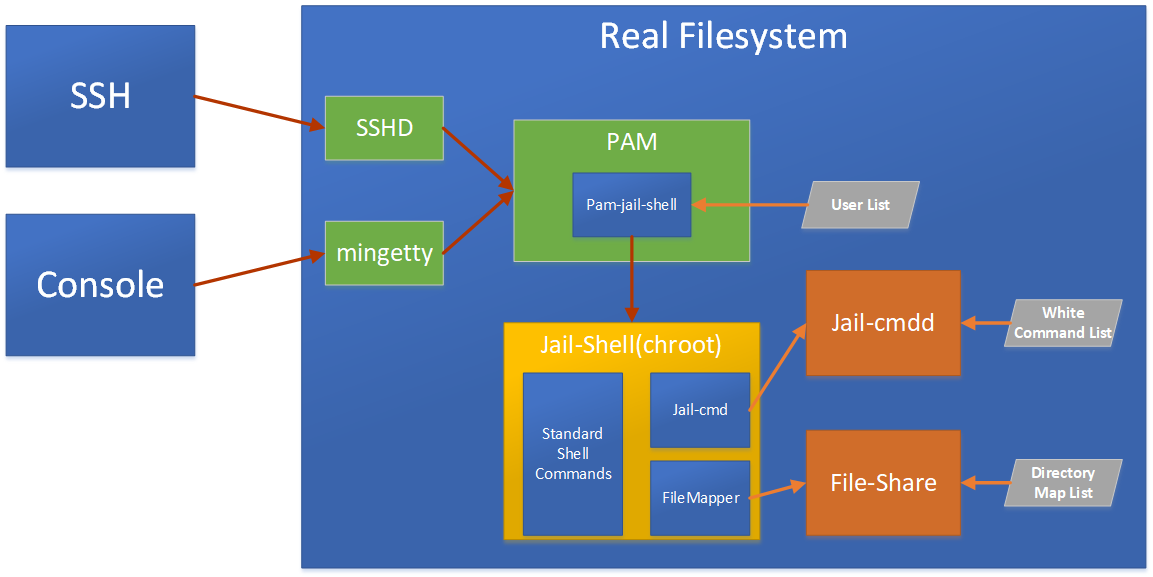
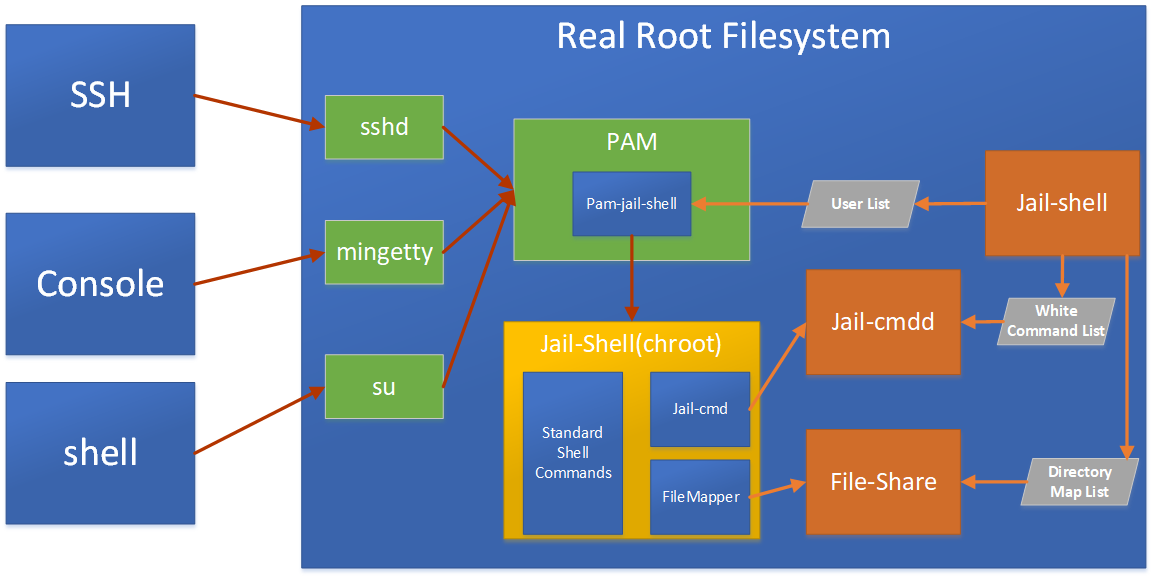
Add detailed readme content.

diff --git a/README.md b/README.md
@@ -1,6 +1,249 @@
 Jail-Shell
 ==============
-Jail-shell is a security tool to limit user accounts to specific directory using chroot() and or specific commands.
 
+[中文REAMDME请看这里](README_zh-CN.md)
+
+Jail-shell is a linux security tool mainly using chroot, namespaces technologies, limiting users to perform specific commands, and access sepcific directories.  
+Users can login through SSH, SCP, SFTP, Telnet, terminals, etc. and restrict them to a secure operating enviroment.  
+Jail-shell can be used for webhost ssh access control, enterprise Administrator's privilege hierarchy management.  
+
+
+Features
+==============
+- **Easy to use**
+
+Through the configuration file, jail-shell automatically generates the chroot running environment, through jail-shell management commands, it's very easy to add, list, delete, restrict users, and easy to install, delete chroot running environment. 
+
+- **Chroot technology limits user access**
+
+The Linux chroot technology is used to restrict the user's directory access, to avoid users access to restricted directories and to prevent users from destroying the system.
+
+- **Directory read-only protection**
+
+The chroot running enviroment is readonly, this avoid users to delete proteceded directories and files, avoid users to create device files, access restricted files.
+
+- **Namespace limit user Visible range**
+
+Use Linux namespace technology, limit the visible range of user PID, Mount directories, and avoid information leackage.
+
+- **System command channel**
+
+Provides a system command-and-proxy channel that allows users to execute a real system's restricted command in a chroot environment, protecting the system in the event that it provides the necessary functionality. 
+
+- **Automatic processing of chroot Environment command library dependencies**
+
+Only a list of commands is required to automatically copy the dynamic library that the command relies on to the chroot environment, avoiding the cumbersome work of copying the dynamic library manually
+
+- **Capabilities Restrictions**
+
+Discard critical capabilities privileges to avoid the system, and the chroot running environment cracked by rootkit.
+
+- **Multi-Linux operating system support**
+
+Supports Redhat, SLEs, Debian and their derivative operating systems.
+
+Architecture
+==============
 ![Architecture](docs/Architecture.png)
+Jail-shell contains 3 parts, Pam Plugins, jail-cmd command agents, Jail-shell command tools.
 
+- **pam_jail_shell Plugins**
+
+Mainly control the login of users. according th the configuration list, use chroot and namespace technology to restrict the login users to a specific restricted directory.
+
+- **jail-cmd command-and-proxy**
+
+It forwards specific command to the real system, such as `passwd`, or other user-related bussiness command, and it also prevent command injection.
+
+- **jail-shell commandline tool**
+
+Mainly provides the ability to manage the restricted security shell, making it easier for administrators to use, including user's add, delete, shell's configuration, installation, deletion, etc.
+
+**instructions**
+1. According to the configuration, pam_jail_shell limit users to the specificed chroot enviroment.
+2. Administrators use jail-shell command manage the list of restricted users, manage the list of commands for the chroot enviroment, manage the access range of directories.
+3. Jail-cmd proxies specific command, to help implement the nessary business functions.
+
+
+Compile and install 
+==============
+**Compile**
+```
+git clone https://github.com/pymumu/jail-shell.git
+cd jail-shell
+make 
+```
+
+**Install**
+```
+sudo make install
+```
+
+**Uninstall**
+```
+sudo /usr/local/jail-shell/install -u
+```
+
+Usage
+==============
+After installation, you can use `jail-shell` command to manage jails, `jail-shell -h` for help.  
+In use, the steps are as follows:  
+1. Use `useradd username` command to add user to the system.
+2. Use `jail-shell jail` command to create a chroot enviroment.
+3. Use `jail-shell user` command to add user to the jails.
+
+
+Example
+-------------
+The following is an example of adding  user `test`  to a jail named `test-jail`.  
+1. add user `test`，and set password
+```shell
+sudo useradd test
+sudo passwd test
+```
+
+2. create chroot enviroment
+```shell
+sudo jail-shell jail -e test-jail
+```
+After executing the above command, a new jail configuration will be created from the template, and it is opened by `vi`, you can edit it, after that, remember to save the configuration with vi command `:w!`.
+
+3. install chroot enviroment
+```shell
+sudo jail-shell jail -i test-jail
+```
+
+4. add user `test` to jail `test-jail`
+```shell
+sudo jail-shell user -a test -j test-jail
+```
+
+5. connect and test whether `test` is jailed.
+```shell
+ssh test@127.0.0.1
+```
+
+Jail Config file format description
+-------------
+The jail config file is located at `/etc/jail-shell/jail-config/`, and file suffix is `.cfg`    
+The configuration supports the following commands: 
+- **dir**
+  * DESC:  
+create a directory into jail
+  * COMMAND:  
+`dir PATH MODE OWNER`
+  * EXAMPLE:  
+`dir /bin/ 0755 root:root`
+
+- **file:**
+  * DESC:  
+copy a file into jail
+  * COMMAND:  
+`file SRC DEST MODE OWNER`
+  * EXAMPLE:  
+`file /etc/nsswitch.conf /etc/nsswitch.conf 0644 root:root`
+
+- **hlink:**
+  * DESC:  
+create a hardlink file into jail
+  * COMMAND:  
+`file SRC DEST MODE OWNER`
+  * EXAMPLE:   
+`file /etc/nsswitch.conf /etc/nsswitch.conf 0644 root:root`
+
+- **slink:**
+  * DESC:  
+create a symbolic link into jail
+  * COMMAND:   
+`slink TARGET LINKNAME`
+  * EXAMPLE:   
+`slink /bin/bash /bin/sh`
+
+- **clink:**
+  * DESC:  
+Try to create hardlinks instead of copying the files. If linking fails it falls back to copying
+  * COMMAND:   
+`clink TARGET LINKNAME`
+  * EXAMPLE:   
+`clink /etc/localtime /etc/localtime`
+
+- **node:**
+  * DESC:  
+create device file.
+  * COMMAND:   
+`node PATH TYPE MAJON MINOR MODE OWNER`
+  * EXAMPLE:  
+`node /dev/null c 1 3 666 root:root`
+  * NOTE: security tips  
+           should avoid adding block device files. 
+ 
+- **bind:**
+  * DESC:  
+bind a directory to jail
+  * COMMAND:  
+`bind [SRC] DEST OPTION`  
+  * OPTION: rw,ro,dev,nodev,exec,noexec, refer to (man mount) for the parameter description   
+  * EXAMPLE:  
+`bind / ro,nodev,nosuid`  
+`bind /opt/ /opt/ ro,nodev,noexec`  
+
+- **cmd:**
+  * DESC:  
+executes commands within the system which outside jail.
+  * COMMAND: `cmd SRC DEST MODE RUN_AS_USER` 
+  * RUN_AS_USER: User who executes system commands, -:- means user in jail  
+  * EXAMPLE:  
+           `cmd /usr/bin/passwd /usr/bin/passwd -:- `  
+           `cmd /some/root/command /some/root/command root:root`  
+           `cmd /some/user/command /some/user/command user:user `  
+  * NOTE: security tips
+           This channel may lead users to escape jail, should avoid adding command which can be shell-inject,  
+           For example, read the commands entered by the user  
+
+Security Tips
+==============
+When using jail-shell, the minimum security authorization principle should be adopted. In the premise of ensuring the use of functions, reduce user rights.
+1. `bind` tips
+  * Except `/dev` directory, it is recommended to add `nodev` parameters, /dev directory must set to `ro, noexec` (read-only, disable executables) permissions.
+  * For the chroot environment directory, it is recommended to set `ro, nodev, nosuid` (read only, prohibit device files, and prohibit suid files) permissions. 
+  * For writable bind directories, it is recommended to set `nodev, noexec, nosuid` (disable device files, disable executable files, disable suid files) permissions. 
+
+2. avoid commands
+  * avoid: debug commands such as `gdb, mount, strace`, etc.. 
+
+
+File Directory Description
+==============
+| directory                           |description                                                      |
+|-------------------------------------|-----------------------------------------------------------------|
+| `/etc/jail-shell/`                  | Configure file Directory                                        |
+| `/etc/jail-shell/jail-shell. conf`  | Restricted User Configuration list file                         |
+| `/etc/jail-shell/jail-config/`      | The directory where the jail shell configuration file is located, and the suffix. cfg file is recognized as a jail configuration file. |
+| `/var/local/jail-shell/`            | Jail-shell Data Directory |
+| `/var/local/jail-shell/jails`       | Jail-shell chroot Environment Directory |
+| `/usr/local/jail-shell`             | Jail-shell program Directory |
+
+Debugging the chroot environment
+==============
+When you copy a command to the chroot environment, if the copy command fails, you need to debug to find the missing dependent files, and add them to the chroot environment.  
+Copy the `strace` command into the chroot environment, and then use `strace` to execute the commands that need to be debugged to find the missing dependent files.   
+The following debugging commands are as follows 
+```shell 
+Strace -F -eopen command
+```
+-eopen represents a list of files that the trace process opens.  
+After executing the above command, troubleshoot to find the open file list.
+```shell
+Open ("/etc/ld.so.preload", "O_RDONLY") = -1 ENOENT (No, such, file, or, directory)
+```
+As indicated above, the `/etc/ld-so.preload` file does not exist when reading, and may need to add the above files to the chroot environment. At this point, you can use the `clink`, `file` command to add missing files to the chroot environment. 
+
+License
+==============
+Jail-shell using GPL-V2 License.
+
+Similar tools
+==============
+[jailkit https://olivier.sessink.nl/jailkit/](https://olivier.sessink.nl/jailkit/)  
+[rshell https://en.wikipedia.org/wiki/Restricted_shell](https://en.wikipedia.org/wiki/Restricted_shell)  
+[firejail https://github.com/netblue30/firejail](https://github.com/netblue30/firejail)   

diff --git a/README_zh-CN.md b/README_zh-CN.md
@@ -59,7 +59,7 @@ jail-shell安全受限shell是一个Linux环境下的安全工具，主要使用
 
 **说明**
 1. 用户通过ssh, 终端，telnet等shell管理工具登录到系统后，pam_jail_shell插件根据配置列表，将登录用户的访问范围限制在指定的chroot环境中。
-2. 管理员通过jail-shel命令，管理受限用户名单列表，以及管理chroot环境的命令列表，并配置目录的访问范围。
+2. 管理员通过jail-shell命令，管理受限用户名单列表，以及管理chroot环境的命令列表，并配置目录的访问范围。
 3. jail-cmd代理用户执行的系统命令，辅助实现必要的业务功能。
 
 
@@ -86,9 +86,9 @@ sudo /usr/local/jail-shell/install -u
 ==============
 安装完成后，可使用jail-shell命令管理安全受限shell，通过`jail-shell -h`查看命令帮助  
 在使用上，步骤如下：  
-1. 使用useradd命令添加用户到系统中。
-2. 使用jail-shell jail创建安全受限shell配置，并创建受限运行环境。
-3. 使用jail-shell user将用户添加到受限系统中。
+1. 使用`useradd username`命令添加用户到系统中。
+2. 使用`jail-shell jail`创建安全受限shell配置，并创建受限运行环境。
+3. 使用`jail-shell user`将用户添加到受限系统中。
 
 使用举例
 -------------
@@ -126,45 +126,62 @@ ssh test@127.0.0.1
 此配置文件用于生成制定的jail，将需要的文件，命令复制到jail中。  
 配置支持如下命令：
 - **dir: 创建目录**  
-  参数：`dir PATH MODE OWNER`  
-  例子：`dir /bin/ 0755 root:root`  
+  * 参数：  
+`dir PATH MODE OWNER`  
+  * 例子：  
+`dir /bin/ 0755 root:root`  
 
 - **file: 复制文件**  
-  参数：`file SRC DEST MODE OWNER`  
-  例子：`file /etc/nsswitch.conf /etc/nsswitch.conf 0644 root:root`
+  * 参数：  
+`file SRC DEST MODE OWNER`  
+  * 例子：  
+`file /etc/nsswitch.conf /etc/nsswitch.conf 0644 root:root`
 
 - **hlink: 创建硬链接文件**  
-  参数：`hlink SRC DEST `  
-  例子：`hlink /etc/localtime /etc/localtime`  
+  * 参数：  
+`hlink SRC DEST `  
+  * 例子：  
+`hlink /etc/localtime /etc/localtime`  
 
 - **slink: 创建符号连接**  
-  参数：`slink TARGET LINKNAME`  
-  例子：`slink /bin/bash /bin/sh`
+  * 参数：  
+`slink TARGET LINKNAME`  
+  * 例子：  
+`slink /bin/bash /bin/sh`
 
 - **clink: 先硬连接创建文件，若失败则复制文件**  
-  参数：`clink SRC DEST `  
-  例子：`clink /etc/localtime /etc/localtime`  
+  * 参数：  
+`clink SRC DEST `  
+  * 例子：  
+`clink /etc/localtime /etc/localtime`  
 
 - **node: 创建设备文件**  
-  参数：`node PATH TYPE MAJON MINOR MODE OWNER`  
-  例子：`node /dev/null c 1 3 666 root:root`  
-  安全说明：  
-        应该避免添加块设备文件。
+  * 参数：  
+`node PATH TYPE MAJON MINOR MODE OWNER`  
+  * 例子：  
+`node /dev/null c 1 3 666 root:root`  
+  * 安全说明：  
+应该避免添加块设备文件。
 
 - **bind: 绑定映射目录**  
-  参数：`bind [SRC] DEST OPTION`  
-        OPTION: rw,ro,dev,nodev,exec,noexec  
-        查阅`man mount`获取参数说明   
-  例子：`bind / ro,nodev,nosuid`  
-        `bind /opt/ /opt/ ro,nodev,noexec`  
+  * 参数：  
+`bind [SRC] DEST OPTION`  
+OPTION: rw,ro,dev,nodev,exec,noexec  
+查阅`man mount`获取参数说明   
+  * 例子：  
+`bind / ro,nodev,nosuid`  
+`bind /opt/ /opt/ ro,nodev,noexec`  
 
 - **cmd: 执行系统内命令**  
-  参数：`cmd SRC DEST MODE RUN_AS_USER`  
-  例子：`cmd /usr/bin/passwd /usr/bin/passwd -:- `  
-        `cmd /some/root/command /some/root/command root:root`  
-        `cmd /some/user/command /some/user/command user:user `  
-  安全说明：  
-        此通道可能导致用户从chroot环境中逃狱，所以，添加的命令必须避免被注入。  
+  * 参数：  
+`cmd SRC DEST MODE RUN_AS_USER`  
+RUN_AS_USER: 指定执行命令的用户，-:-表示chroot环境中的用户。  
+  * 例子：  
+`cmd /usr/bin/passwd /usr/bin/passwd -:- `  
+`cmd /some/root/command /some/root/command root:root`  
+`cmd /some/user/command /some/user/command user:user `  
+  * 安全说明：  
+此通道可能导致用户从chroot环境中逃狱，所以，添加的命令必须避免被注入。  
 
 安全注意事项
 -------------
@@ -188,6 +205,23 @@ ssh test@127.0.0.1
 |`/var/local/jail-shell/`          |受限安全shell数据目录                                            |
 |`/var/local/jail-shell/jails`     |受限安全shell chroot运行环境目录                                 |
 |`/usr/local/jail-shell`           |jail-shell程序目录                                               |
+
+调试chroot环境
+==============
+当向chroot环境中复制命令后，复制后的命令如果执行失败，则需要调试，找出缺少的文件，并添加到chroot环境中。
+
+调试需要的工具：`strace`， 调试方法如下  
+将strace命令复制到chroot环境中，然后使用strace执行需要调试的命令，找出执行命令缺少的文件。对应的调试命令如下  
+```shell
+strace -F -eopen command
+```
+-eopen表示跟踪进程打开的文件列表， 必要时，可以不使用此参数。
+
+执行上述命令后，排查打开失败的文件列表是否在chroot环境中。
+```shell
+open("/etc/ld.so.preload", O_RDONLY)    = -1 ENOENT (No such file or directory)
+```
+如上表示：/etc/ld-so.preload文件读取时不存在，可能需要将上述文件添加到chroot环境中。这时可使用`clink`，`file`命令将缺失文件添加到chroot环境中。
 
 License
 ==============
